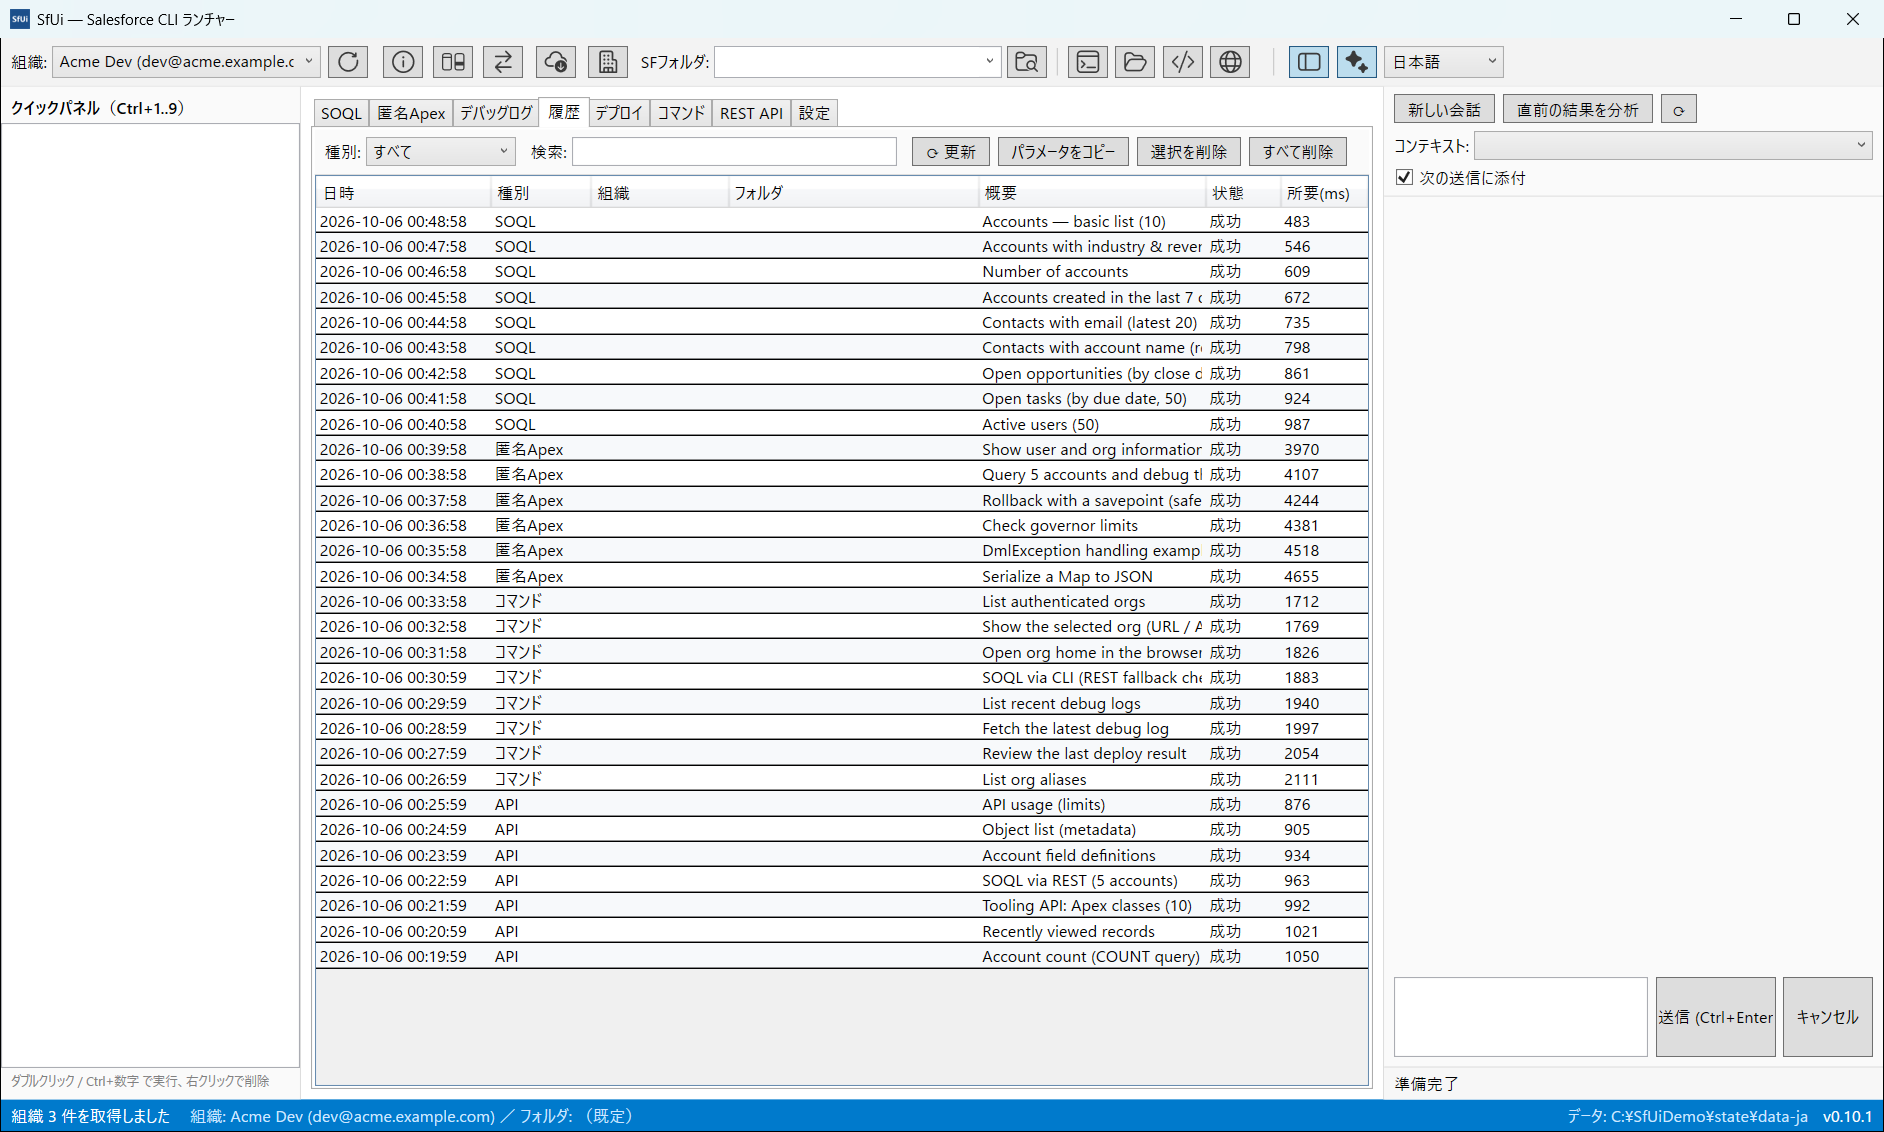
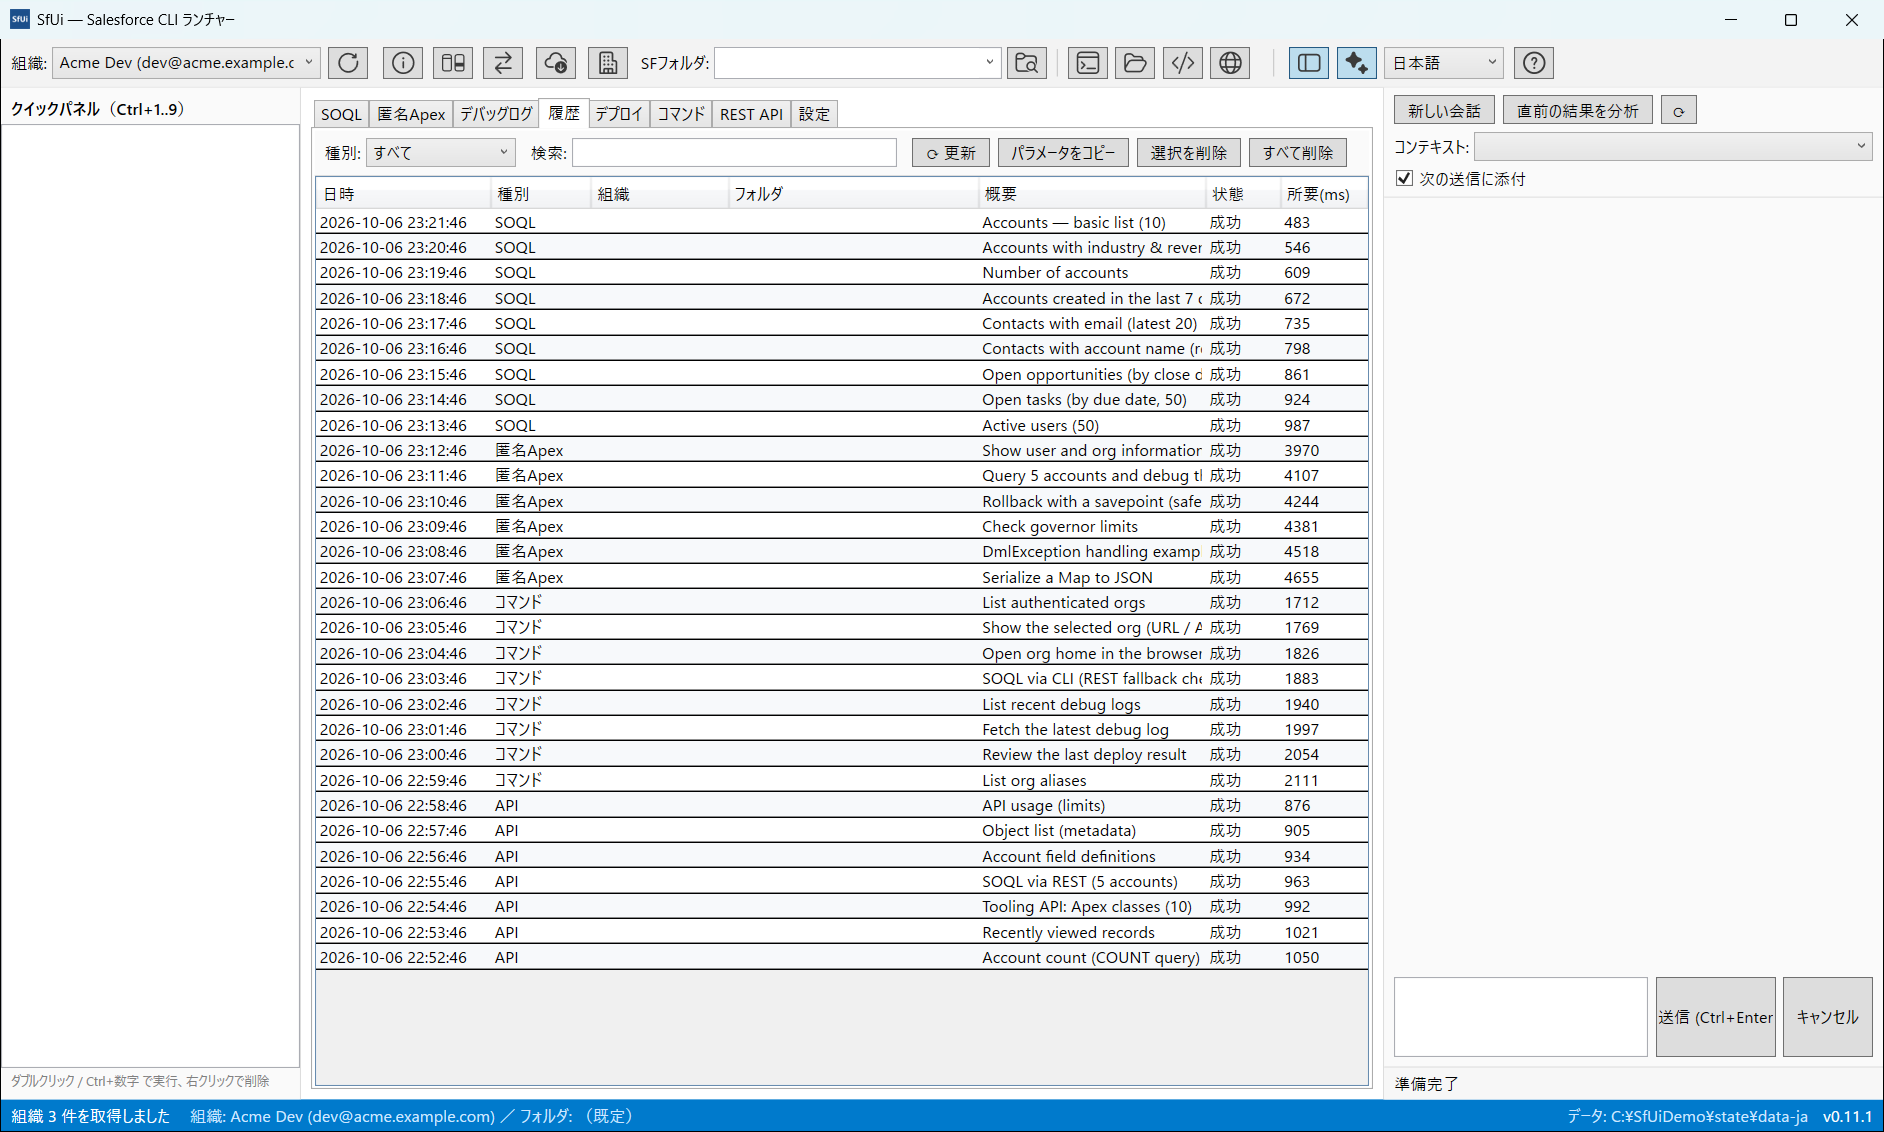
Add publish prep (privacy/security policies, disclaimers, store assets); bump to v0.11.1

diff --git a/src/SfUi.App/Views/AboutWindow.xaml b/src/SfUi.App/Views/AboutWindow.xaml
@@ -51,6 +51,9 @@
             </TextBlock>
         </StackPanel>
 
+        <!-- 非公式・商標の免責事項 -->
+        <TextBlock Text="{loc:Tr About_Disclaimer}" TextWrapping="Wrap" Foreground="#777777" FontSize="11" Margin="0,16,0,0" />
+
         <!-- 閉じる -->
         <Button Content="{loc:Tr About_Close}" IsCancel="True" Click="OnCloseClick"
                 Padding="20,4" HorizontalAlignment="Right" Margin="0,18,0,0" />

diff --git a/src/SfUi.Core/Localization/UiText.Ja.cs b/src/SfUi.Core/Localization/UiText.Ja.cs
@@ -75,6 +75,7 @@ public static partial class UiText
         ["About_IssuesLink"] = "不具合の登録 (Issues)",
         ["About_ContactLink"] = "作者へのご連絡",
         ["About_Close"] = "閉じる",
+        ["About_Disclaimer"] = "SfUi は Salesforce, Inc. とは無関係の非公式ツールです（非提携・非承認・非スポンサー）。Salesforce は Salesforce, Inc. の商標です。",
         ["Tab_Soql"] = "SOQL",
         ["Tab_Apex"] = "匿名Apex",
         ["Tab_Log"] = "デバッグログ",
@@ -378,7 +379,7 @@ public static partial class UiText
         // ---- 設定: AI ----
         ["Settings_AiGroup"] = "AI",
         ["Settings_ApiKey"] = "API キー:",
-        ["Settings_ApiKeyTip"] = "settings.json に難読化した値（enc1:…）でローカル保存されます（リポジトリには含まれません。平文の入力も可）。環境変数 SFUI_AI_API_KEY（旧 DEEPSEEK_API_KEY）でも指定可。内蔵キーは既定の DeepSeek / OpenAI 接続先のときのみ使用します。",
+        ["Settings_ApiKeyTip"] = "settings.json に難読化した値（enc1:…）でローカル保存されます（リポジトリには含まれません。平文の入力も可）。環境変数 SFUI_AI_API_KEY（旧 DEEPSEEK_API_KEY）でも指定可。内蔵キーは既定の DeepSeek / OpenAI 接続先のときのみ使用します。内蔵（評価用）キーは上限があり、予告なく停止することがあります（自分のキーが優先されます）。",
         ["Settings_Model"] = "モデル:",
         ["Settings_Test"] = "接続テスト",
         ["Settings_TestOkFmt"] = "AI 接続OK（{0}）",

diff --git a/src/SfUi.Core/Localization/UiText.Ko.cs b/src/SfUi.Core/Localization/UiText.Ko.cs
@@ -75,6 +75,7 @@ public static partial class UiText
         ["About_IssuesLink"] = "버그 신고 (Issues)",
         ["About_ContactLink"] = "작성자에게 문의",
         ["About_Close"] = "닫기",
+        ["About_Disclaimer"] = "SfUi는 독립 도구이며 Salesforce, Inc.와 제휴, 승인 또는 후원 관계가 없습니다. Salesforce는 Salesforce, Inc.의 상표입니다.",
         ["Tab_Soql"] = "SOQL",
         ["Tab_Apex"] = "Apex",
         ["Tab_Log"] = "디버그 로그",
@@ -378,7 +379,7 @@ public static partial class UiText
         // ---- 設定: AI ----
         ["Settings_AiGroup"] = "AI",
         ["Settings_ApiKey"] = "API 키:",
-        ["Settings_ApiKeyTip"] = "settings.json에 난독화된 값(enc1:…)으로 로컬 저장됩니다(커밋되지 않음; 평문 입력도 가능). SFUI_AI_API_KEY(또는 이전 DEEPSEEK_API_KEY) 환경 변수가 대체로 사용되며, 내장 키는 기본 DeepSeek / OpenAI 엔드포인트에만 적용됩니다.",
+        ["Settings_ApiKeyTip"] = "settings.json에 난독화된 값(enc1:…)으로 로컬 저장됩니다(커밋되지 않음; 평문 입력도 가능). SFUI_AI_API_KEY(또는 이전 DEEPSEEK_API_KEY) 환경 변수가 대체로 사용되며, 내장 키는 기본 DeepSeek / OpenAI 엔드포인트에만 적용됩니다. 내장 평가용 키는 사용 상한이 있으며 예고 없이 중단될 수 있습니다(자신의 키가 우선).",
         ["Settings_Model"] = "모델:",
         ["Settings_Test"] = "연결 테스트",
         ["Settings_TestOkFmt"] = "AI 연결 정상({0})",

diff --git a/src/SfUi.Core/Localization/UiText.En.cs b/src/SfUi.Core/Localization/UiText.En.cs
@@ -75,6 +75,7 @@ public static partial class UiText
         ["About_IssuesLink"] = "Report a bug (Issues)",
         ["About_ContactLink"] = "Contact the author",
         ["About_Close"] = "Close",
+        ["About_Disclaimer"] = "SfUi is an independent tool and is not affiliated with, endorsed by, or sponsored by Salesforce, Inc. Salesforce is a trademark of Salesforce, Inc.",
         ["Tab_Soql"] = "SOQL",
         ["Tab_Apex"] = "Apex",
         ["Tab_Log"] = "Debug Logs",
@@ -378,7 +379,7 @@ public static partial class UiText
         // ---- 設定: AI ----
         ["Settings_AiGroup"] = "AI",
         ["Settings_ApiKey"] = "API key:",
-        ["Settings_ApiKeyTip"] = "Stored locally in settings.json as an obfuscated value (enc1:…; never committed — plaintext input is also accepted). The SFUI_AI_API_KEY (or legacy DEEPSEEK_API_KEY) environment variable is used as a fallback; the bundled key applies to the default DeepSeek / OpenAI endpoints only.",
+        ["Settings_ApiKeyTip"] = "Stored locally in settings.json as an obfuscated value (enc1:…; never committed — plaintext input is also accepted). The SFUI_AI_API_KEY (or legacy DEEPSEEK_API_KEY) environment variable is used as a fallback; the bundled key applies to the default DeepSeek / OpenAI endpoints only. The bundled evaluation key has usage limits and may stop without notice (your own key takes priority).",
         ["Settings_Model"] = "Model:",
         ["Settings_Test"] = "Test connection",
         ["Settings_TestOkFmt"] = "AI connection OK ({0})",

diff --git a/src/SfUi.Core/Localization/UiText.Zh.cs b/src/SfUi.Core/Localization/UiText.Zh.cs
@@ -75,6 +75,7 @@ public static partial class UiText
         ["About_IssuesLink"] = "报告问题 (Issues)",
         ["About_ContactLink"] = "联系作者",
         ["About_Close"] = "关闭",
+        ["About_Disclaimer"] = "SfUi 是独立工具，与 Salesforce, Inc. 无关联，未获其认可或赞助。Salesforce 是 Salesforce, Inc. 的商标。",
         ["Tab_Soql"] = "SOQL",
         ["Tab_Apex"] = "Apex",
         ["Tab_Log"] = "调试日志",
@@ -378,7 +379,7 @@ public static partial class UiText
         // ---- 設定: AI ----
         ["Settings_AiGroup"] = "AI",
         ["Settings_ApiKey"] = "API 密钥：",
-        ["Settings_ApiKeyTip"] = "以混淆值（enc1:…）保存在本地 settings.json 中（不会提交到仓库；也可直接粘贴明文）。环境变量 SFUI_AI_API_KEY（或旧的 DEEPSEEK_API_KEY）将作为回退；内置密钥仅适用于默认的 DeepSeek / OpenAI 端点。",
+        ["Settings_ApiKeyTip"] = "以混淆值（enc1:…）保存在本地 settings.json 中（不会提交到仓库；也可直接粘贴明文）。环境变量 SFUI_AI_API_KEY（或旧的 DEEPSEEK_API_KEY）将作为回退；内置密钥仅适用于默认的 DeepSeek / OpenAI 端点。内置试用密钥有使用上限，可能会未经通知停止使用（自己的密钥优先）。",
         ["Settings_Model"] = "模型：",
         ["Settings_Test"] = "测试连接",
         ["Settings_TestOkFmt"] = "AI 连接正常（{0}）",

diff --git a/PRIVACY.md b/PRIVACY.md
@@ -1,0 +1,72 @@
+# Privacy Policy — SfUi
+
+Last updated: 2026-10-06
+
+SfUi is a local desktop application that wraps the Salesforce CLI (`sf`).
+This policy describes what data the app handles and what leaves your device.
+
+## Summary
+
+- SfUi itself collects **no telemetry, analytics or crash reports** and requires no account.
+- Your settings, history, favorites, logs and cached org data are stored **locally on your device**.
+- Network traffic originates only from actions you trigger: Salesforce CLI commands contacting Salesforce, and AI chat requests to the AI endpoint you configure.
+
+## Data stored on your device
+
+SfUi stores its data in a `data/` folder (next to the executable in portable mode, otherwise `%APPDATA%\SfUi`; on macOS `~/Library/Application Support/SfUi`). This includes:
+
+- `settings.json` — your preferences (org selection, language, AI endpoint / model, AI API key). The API key is stored obfuscated (enc1:…, XOR+Base64 — obfuscation only, not encryption).
+- `history/`, `results/` — what you executed and its results.
+- `logs/` — app logs.
+- `orginfo/`, `backups/`, `org-manage.json` — cached org metadata, backups you created, and your local tags/notes.
+
+To remove all SfUi data, delete this folder. Uninstalling (Microsoft Store / MSIX) removes the app; a data folder in `%APPDATA%\SfUi` can be deleted manually afterwards.
+
+## What is sent off your device (and when)
+
+1. **Salesforce CLI operations (you trigger these).** When you run SOQL, Apex, deploys, data import/export, backups, etc., SfUi runs the Salesforce CLI on your behalf; those commands send your request and its contents to Salesforce (your org), exactly as if you ran `sf` yourself. Salesforce's own terms and privacy policy apply to that data. SfUi disables the CLI's usage telemetry (`SF_DISABLE_TELEMETRY=true`).
+2. **AI chat (you trigger this).** Messages you type in the AI panel — plus any history result or tab data you explicitly attach — are sent to the AI endpoint configured in Settings → AI (default: DeepSeek; can be switched to OpenAI, Anthropic's compatibility layer, or a local LLM, in which case nothing leaves your machine). If you use the bundled evaluation key, requests go to the default endpoint and the key has usage limits and may stop without notice.
+3. **Links / browser pages.** Opening a browser page (org home, Setup, records, GitHub) hands the URL to your default browser.
+
+SfUi sends nothing else. There is no automatic update check, no ads, and no third-party SDKs.
+
+## Contact
+
+Questions: ko@hks-tech-kk.com or https://github.com/huqian2016/SfUi/issues
+
+---
+
+# プライバシーポリシー — SfUi
+
+最終更新: 2026-10-06
+
+SfUi は Salesforce CLI（`sf`）をラップするローカル動作のデスクトップ アプリです。本ポリシーは、アプリが扱うデータと外部へ送信されるものを説明します。
+
+## 要点
+
+- SfUi 自体は**テレメトリ・解析・クラッシュレポートを一切送信しません**（アカウント不要）
+- 設定・履歴・お気に入り・ログ・組織情報のキャッシュは**端末内**にのみ保存されます
+- 外部通信は、あなたが実行した操作に限られます: Salesforce CLI による Salesforce へのアクセスと、設定した AI 接続先への AI チャットの送信
+
+## 端末内に保存されるデータ
+
+データは `data/` フォルダ（ポータブル時 = exe の隣、それ以外 = `%APPDATA%\SfUi`。macOS は `~/Library/Application Support/SfUi`）に保存されます:
+
+- `settings.json` — 設定（組織・言語・AI 接続先 / モデル・AI API キー）。API キーは難読化（enc1:…、XOR+Base64。暗号化ではなく難読化です）
+- `history/`・`results/` — 実行内容と結果
+- `logs/` — アプリのログ
+- `orginfo/`・`backups/`・`org-manage.json` — 組織情報キャッシュ・作成したバックアップ・タグ/メモ
+
+全データの削除はこのフォルダを削除すれば完了です（アンインストール後は `%APPDATA%\SfUi` を手動で削除してください）。
+
+## 外部へ送信されるもの（とタイミング）
+
+1. **Salesforce CLI の操作（あなたが実行したとき）**: SOQL / Apex / デプロイ / データ入出力 / バックアップ等は、SfUi が Salesforce CLI を実行するため、あなた自身が `sf` を実行した場合と同様に、リクエスト内容が Salesforce（あなたの組織）へ送信されます。そのデータには Salesforce の利用規約・プライバシーポリシーが適用されます。CLI の利用統計（テレメトリ）は SfUi が無効化します（`SF_DISABLE_TELEMETRY=true`）
+2. **AI チャット（あなたが実行したとき）**: 入力したメッセージ（+ 明示的に添付した履歴結果やタブデータ）が、設定 → AI で構成した接続先へ送信されます（既定: DeepSeek。OpenAI / Anthropic 互換レイヤー / ローカル LLM に切替可。ローカル LLM なら端末外へ出ません）。同梱の評価用キーを使う場合、送信先は既定の接続先で、キーには上限があり予告なく停止することがあります
+3. **リンク・ブラウザー表示**: 組織ホーム / Setup / レコード / GitHub を開く操作は既定のブラウザーに URL を渡します
+
+上記以外の送信はありません（自動アップデート確認・広告・第三者 SDK なし）。
+
+## 連絡先
+
+ko@hks-tech-kk.com / https://github.com/huqian2016/SfUi/issues

diff --git a/docs/publish-plan.md b/docs/publish-plan.md
@@ -1,6 +1,6 @@
 # SfUi 公開（Publish）計画
 
-> 対象: SfUi v0.11.0（2026-10-06 時点）
+> 対象: SfUi v0.11.1（2026-10-06 時点）
 > 目的: このツールを多くのユーザー（主に Salesforce 開発者・管理者）に届けるための計画をまとめる
 > 関連: `packaging/README.md`（MSIX / Store 提出）、`docs/macos-signing-notarization.md`（mac 署名・公証）、`.github/ISSUE_TEMPLATE/`（不具合報告）
 
@@ -38,25 +38,25 @@
 
 ### 2.1 必須（ブロッカー級）
 
-- [x] 単体テスト 443 件 / CI 6 ジョブ green（Windows・macOS）
+- [x] 単体テスト 482 件 / CI green（Windows・macOS）
 - [x] macOS: Developer ID 署名 + 公証（CI で自動）
-- [ ] **非公式・商標 Disclaimer** を追加
+- [x] **非公式・商標 Disclaimer** を追加（2026-10-06: README EN/JA + About ウィンドウ（WPF/Avalonia）+ Store 説明文ドラフト）
   - README（EN / JA）、About ウィンドウ、Microsoft Store の説明欄
   - 文言例: 「本ツールは Salesforce, Inc. とは無関係の非公式ツールです。Salesforce は Salesforce, Inc. の商標です。」
-- [ ] **プライバシーポリシー**（`PRIVACY.md` + 公開 URL）
+- [x] **プライバシーポリシー**（`PRIVACY.md` 作成済み 2026-10-06。Store 用 URL: https://github.com/huqian2016/SfUi/blob/main/PRIVACY.md）
   - 内容: アプリ本体はテレメトリ送信なし／データはローカル保存（`data/`・`%APPDATA%\SfUi`・`~/Library/Application Support/SfUi`）／外部送信は AI チャット利用時のみ（入力内容が設定先 API へ送信される）／sf CLI テレメトリは無効化（`SF_DISABLE_TELEMETRY`）／削除方法
   - Store 提出にはプライバシー URL が必須
-- [ ] **Windows 配布の整理**
+- [x] **Windows 配布の整理**（2026-10-06: Store 公開済み・README を「Microsoft Store 推奨」導線に更新）
   - 主導線は Microsoft Store（Store 再署名 = SmartScreen 警告なし）
   - GitHub 直配布（exe / portable / MSIX）は「署名なし・警告の出し方」を README に明記（既存の記載を維持）
-- [ ] **お試しキーの説明**を README / 設定に追加（§1.1 の方針）
+- [x] **お試しキーの説明**を README / 設定に追加（2026-10-06。上限・予告なく停止を明記）
 
 ### 2.2 強く推奨
 
 - [ ] README の**英語セクション拡充**（機能一覧・スクリーンショットを JA と同水準に）
 - [ ] スクリーンショット更新（About・SOQL / Apex 補完など v0.11 の新機能）
-- [ ] **Dependabot**（`.github/dependabot.yml`）+ **CodeQL**（Actions）を有効化
-- [ ] **SECURITY.md**（脆弱性の報告先: ko@hks-tech-kk.com / GitHub Security Advisories）
+- [x] **Dependabot**（`.github/dependabot.yml`）+ **CodeQL**（`.github/workflows/codeql.yml`）を有効化（2026-10-06 追加）
+- [x] **SECURITY.md**（脆弱性の報告先: ko@hks-tech-kk.com / GitHub Security Advisories）（2026-10-06 追加）
 - [ ] **CHANGELOG.md**（Releases に加えてリポジトリ内でも履歴を辿れるように）
 - [ ] Intel Mac 対応の判断（対応=CI に `osx-x64` 追加／非対応=README に「Apple Silicon 専用」を明記）
 - [ ] GitHub 版向けの**アップデート通知**（Releases API を照会して「新バージョンあり」を表示）
@@ -65,7 +65,7 @@
 
 - [ ] デモ GIF / 短尺動画（機能アピール用）
 - [ ] リリース自動化（tag push で 5 アセットを CI が添付）
-- [ ] Store 掲載用スクリーンショットの再撮影（最新 UI）
+- [x] Store 掲載用スクリーンショットの再撮影（最新 UI）（2026-10-06: `dist\SfUi-Store-Screenshots-v0.11.1.zip` / en・ja 01..08）
 
 ---
 
@@ -150,9 +150,11 @@ Phase 3: 一般公開・拡大
 
 ## 6. 直近の ToDo（Phase 0）
 
-1. [ ] README（EN / JA）+ About に非公式・商標 Disclaimer を追加
-2. [ ] `PRIVACY.md` 作成（Store 用 URL も確保: GitHub のファイル URL で可）
-3. [ ] README / 設定画面の説明に「お試しキー（上限あり）」の文言を追加
-4. [ ] `.github/dependabot.yml` + CodeQL + `SECURITY.md` を追加
+1. [x] README（EN / JA）+ About に非公式・商標 Disclaimer を追加
+2. [x] `PRIVACY.md` 作成（Store 用 URL: https://github.com/huqian2016/SfUi/blob/main/PRIVACY.md）
+3. [x] README / 設定画面の説明に「お試しキー（上限あり）」の文言を追加
+4. [x] `.github/dependabot.yml` + CodeQL + `SECURITY.md` を追加
 5. [ ] README EN セクションの拡充
 6. [ ] 上記をまとめて v0.11.1 としてリリース → Store 再提出
+
+> 2026-10-06 進捗: 1〜4 完了（About/README/設定の文言 + PRIVACY/SECURITY/Dependabot/CodeQL）。v0.11.1 はバージョン更新（csproj 0.11.1 / AppxManifest 0.11.1.0）・`dist\SfUi.exe` publish・Store スクショ（`dist\SfUi-Store-Screenshots-v0.11.1.zip`）・掲載文ドラフト（`dist\store-listing-0.11.1.md`）まで準備済み。残り = 5（README EN 拡充）と 6（リリース + Store 再提出）。

diff --git a/SECURITY.md b/SECURITY.md
@@ -1,0 +1,30 @@
+# Security Policy
+
+## Supported versions
+
+The latest release (Microsoft Store / GitHub Releases) is supported with security fixes. Please reproduce issues on the latest version before reporting.
+
+## Reporting a vulnerability
+
+Please **do not open a public issue** for security problems. Report privately via either:
+
+- GitHub Security Advisories: https://github.com/huqian2016/SfUi/security/advisories/new (preferred)
+- E-mail: ko@hks-tech-kk.com
+
+Include: the SfUi version, OS version, reproduction steps, and any logs (please remove org names, usernames and access tokens before sending).
+
+We aim to acknowledge within a few business days and to ship a fix or mitigation as soon as practical. Credit is given in the release notes unless you prefer otherwise.
+
+## Scope notes
+
+- SfUi runs the Salesforce CLI and stores its data locally. Access tokens are obtained at runtime from the CLI and are not persisted by SfUi.
+- The AI API key in `settings.json` is obfuscated (`enc1:…`, XOR+Base64) — this is casual-copy protection, not encryption; treat any file you share accordingly.
+- The bundled evaluation AI key is intentionally shared with all users (with usage limits). Do not report it as a leak; report abuse concerns by e-mail instead.
+
+---
+
+## セキュリティ ポリシー（日本語）
+
+- サポート対象: 最新リリース（Microsoft Store / GitHub Releases）。修正は最新版に対して行います
+- 脆弱性の報告は**公開 Issue を避け**、GitHub の Security Advisories（推奨）または ko@hks-tech-kk.com へ。バージョン・OS・再現手順・ログ（組織名・ユーザー名・アクセス トークンはマスク）を添えてください
+- SfUi はアクセス トークンを永続保存しません（実行時に CLI から取得）。`settings.json` の AI キーは難読化であり暗号化ではありません。同梱の評価用キーは全ユーザーでの共有が仕様です（漏洩報告ではなく、悪用の懸念をメールでご連絡ください）
